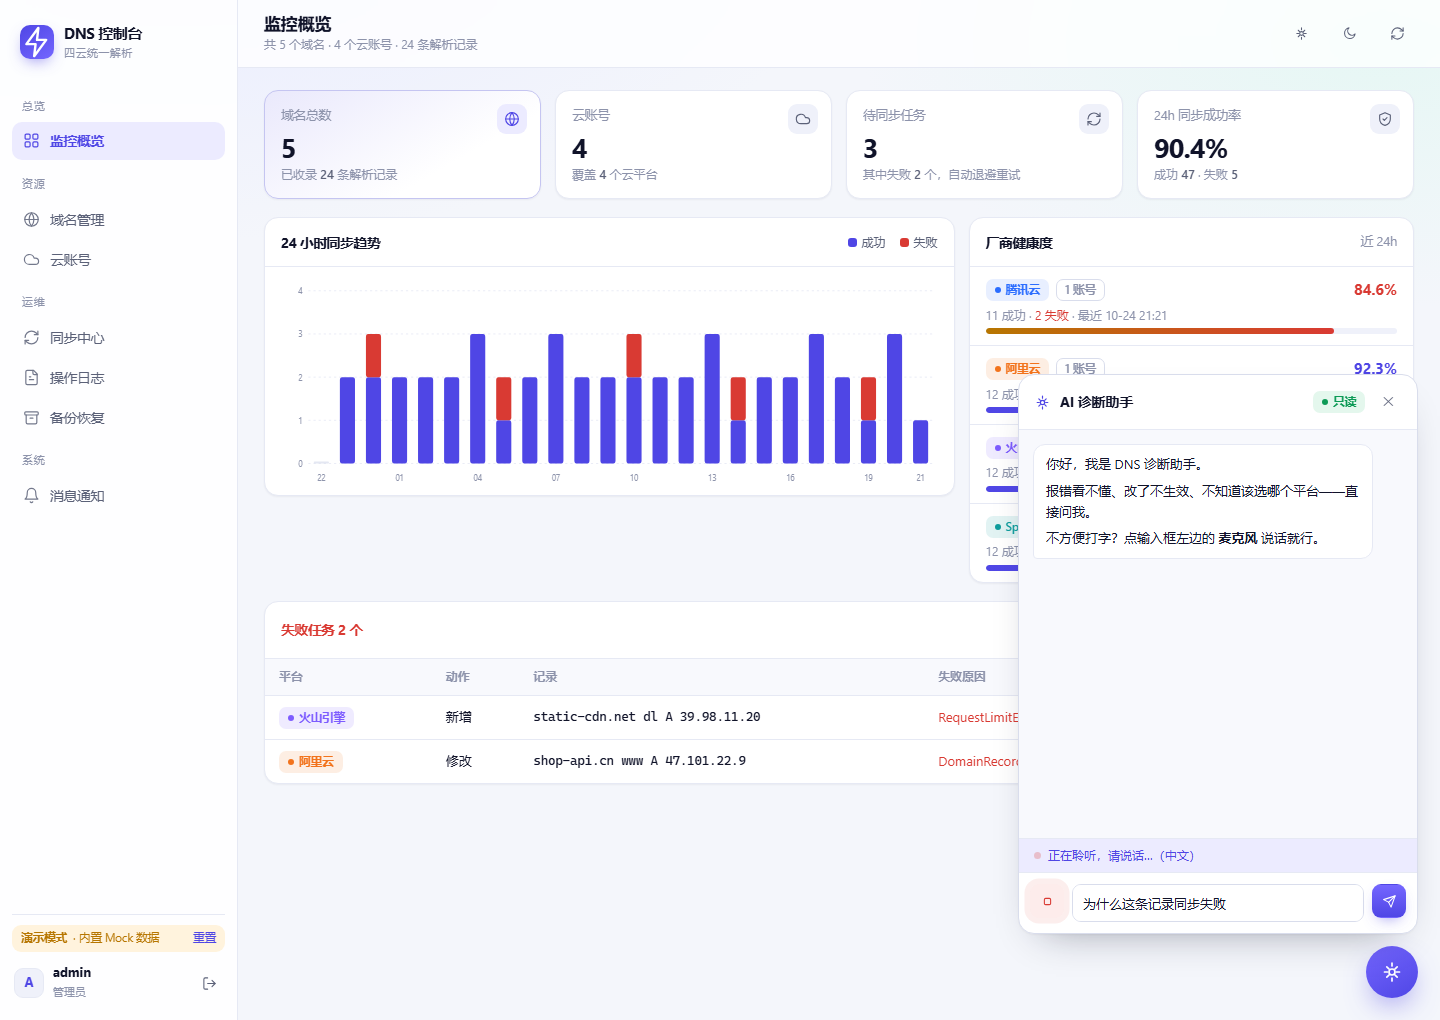
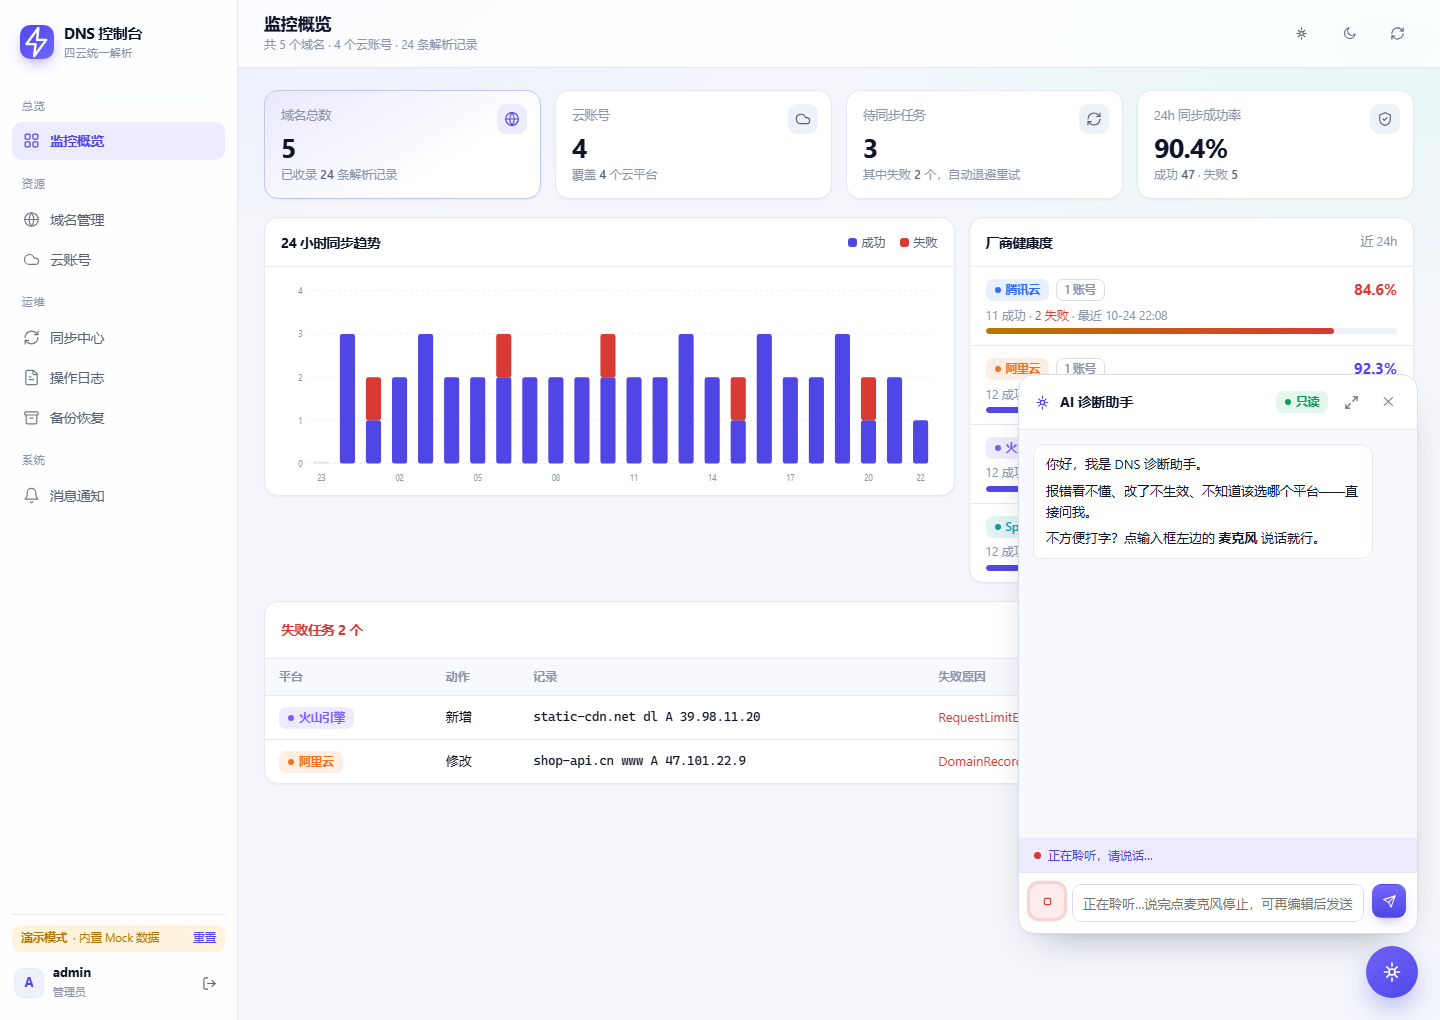
feat(web): AI 抽屉支持放大 / 还原，精简语音提示文案
- 头部新增放大/还原按钮（400px ↔ 880px），状态记在 localStorage
- 聆听提示去掉「（中文）」后缀，麦克风 tooltip 同步精简
- 补充 docs/screenshots/12-AI放大窗口.png，更新 11 号语音截图
- web/README 增加「AI 助手交互」说明

Changed region(s): [[0.2188, 0.3039, 0.625, 0.4255], [0.75, 0.8814, 0.9375, 0.9118], [0.875, 0.3647, 0.9688, 0.4255]]

diff --git a/web/src/ai.js b/web/src/ai.js
@@ -15,6 +15,7 @@ const SR = window.SpeechRecognition || window.webkitSpeechRecognition || null;
 let recog = null;
 let listening = false;
 let committed = '';
+const EXPAND_KEY = 'dns_ai_expanded';
 
 /** 极简 Markdown 渲染：标题 / 粗体 / 行内代码 / 代码块 / 列表 */
 function md(text) {
@@ -61,6 +62,7 @@ export function mountAssistant() {
         ${icon('spark')}
         <h3>AI 诊断助手</h3>
         <span class="chip ok"><i class="dot"></i>只读</span>
+        <button class="btn ghost icon sm" id="ai-expand" title="放大窗口">${icon('expand')}</button>
         <button class="btn ghost icon sm" id="ai-close">✕</button>
       </div>
       <div class="ai-body" id="ai-body"></div>
@@ -86,6 +88,8 @@ export function mountAssistant() {
 
   $('#ai-fab').onclick = () => window.__aiToggle();
   $('#ai-close').onclick = () => toggle(false);
+  $('#ai-expand').onclick = () => setExpanded(!els.drawer.classList.contains('expanded'));
+  if (localStorage.getItem(EXPAND_KEY) === '1') setExpanded(true);
   els.send.onclick = send;
   els.input.addEventListener('keydown', e => {
     if (e.key === 'Enter' && !e.shiftKey) { e.preventDefault(); send(); }
@@ -182,10 +186,21 @@ function setListening(on) {
   if (!els) return;
   els.mic.innerHTML = icon(on ? 'stop' : 'mic');
   els.mic.classList.toggle('recording', on);
-  els.mic.title = on ? '停止语音输入' : '语音输入（说中文即可）';
+  els.mic.title = on ? '停止语音输入' : '语音输入';
   els.input.placeholder = on ? '正在聆听…说完点麦克风停止，可再编辑后发送' : '例如：为什么这条记录同步失败？';
   els.voiceBar.classList.toggle('show', on);
-  els.voiceBar.innerHTML = on ? '<span class="live-dot"></span>正在聆听，请说话…（中文）' : '';
+  els.voiceBar.innerHTML = on ? '<span class="live-dot"></span>正在聆听，请说话…' : '';
+}
+
+function setExpanded(on) {
+  if (!els) return;
+  els.drawer.classList.toggle('expanded', on);
+  const b = $('#ai-expand');
+  if (b) {
+    b.innerHTML = icon(on ? 'shrink' : 'expand');
+    b.title = on ? '还原窗口' : '放大窗口';
+  }
+  try { localStorage.setItem(EXPAND_KEY, on ? '1' : '0'); } catch (e) { /* ignore */ }
 }
 
 /* --------------------------------- 对话 --------------------------------- */

diff --git a/web/src/core.js b/web/src/core.js
@@ -54,6 +54,8 @@ const ICONS = {
   send: '<path d="M21 3 10.5 13.5"/><path d="M21 3l-6.5 18-4-8-8-4L21 3Z"/>',
   mic: '<rect x="9" y="2.5" width="6" height="11" rx="3"/><path d="M5.5 11a6.5 6.5 0 0 0 13 0"/><path d="M12 17.5V21"/><path d="M8.5 21h7"/>',
   stop: '<rect x="7" y="7" width="10" height="10" rx="2"/>',
+  expand: '<path d="M15 3h6v6"/><path d="M9 21H3v-6"/><path d="m21 3-7 7"/><path d="m3 21 7-7"/>',
+  shrink: '<path d="M4 14h6v6"/><path d="M20 10h-6V4"/><path d="m14 10 7-7"/><path d="m3 21 7-7"/>',
   close: '<path d="M6 6l12 12M18 6 6 18"/>',
 };
 

diff --git a/web/src/styles/console.css b/web/src/styles/console.css
@@ -531,3 +531,13 @@ input[type="checkbox"]:indeterminate::after {
   width: 7px; height: 7px; border-radius: 50%; background: var(--bad);
   animation: blink 1.1s infinite; flex: none;
 }
+
+/* AI 抽屉：放大 / 还原 */
+.ai-drawer { transition: width .18s ease, height .18s ease; }
+.ai-drawer.expanded {
+  width: min(880px, calc(100vw - 44px));
+  height: min(82vh, calc(100vh - 120px));
+}
+@media (max-width: 900px) {
+  .ai-drawer.expanded { right: 8px; width: calc(100vw - 16px); height: calc(100vh - 116px); }
+}

diff --git a/web/README.md b/web/README.md
@@ -73,6 +73,12 @@ cd web && npm install && npm run build     # 或直接在仓库根 make build
 
 后端**未做任何改动**：没有新增/修改路由、没有动数据库迁移脚本，纯前端替换。
 
+## AI 助手交互
+
+- 右下悬浮球打开 / 关闭抽屉
+- 头部 **⤢** 按钮放大 / 还原窗口（400px ↔ 880px），偏好记在 localStorage
+- 输入框左侧麦克风 = 语音输入（见下）
+
 ## AI 助手的语音输入
 
 输入框左侧的麦克风按钮 = 语音转文字，**纯浏览器端实现**（Web Speech API），不经过本项目后端，也不需要任何 API Key。
